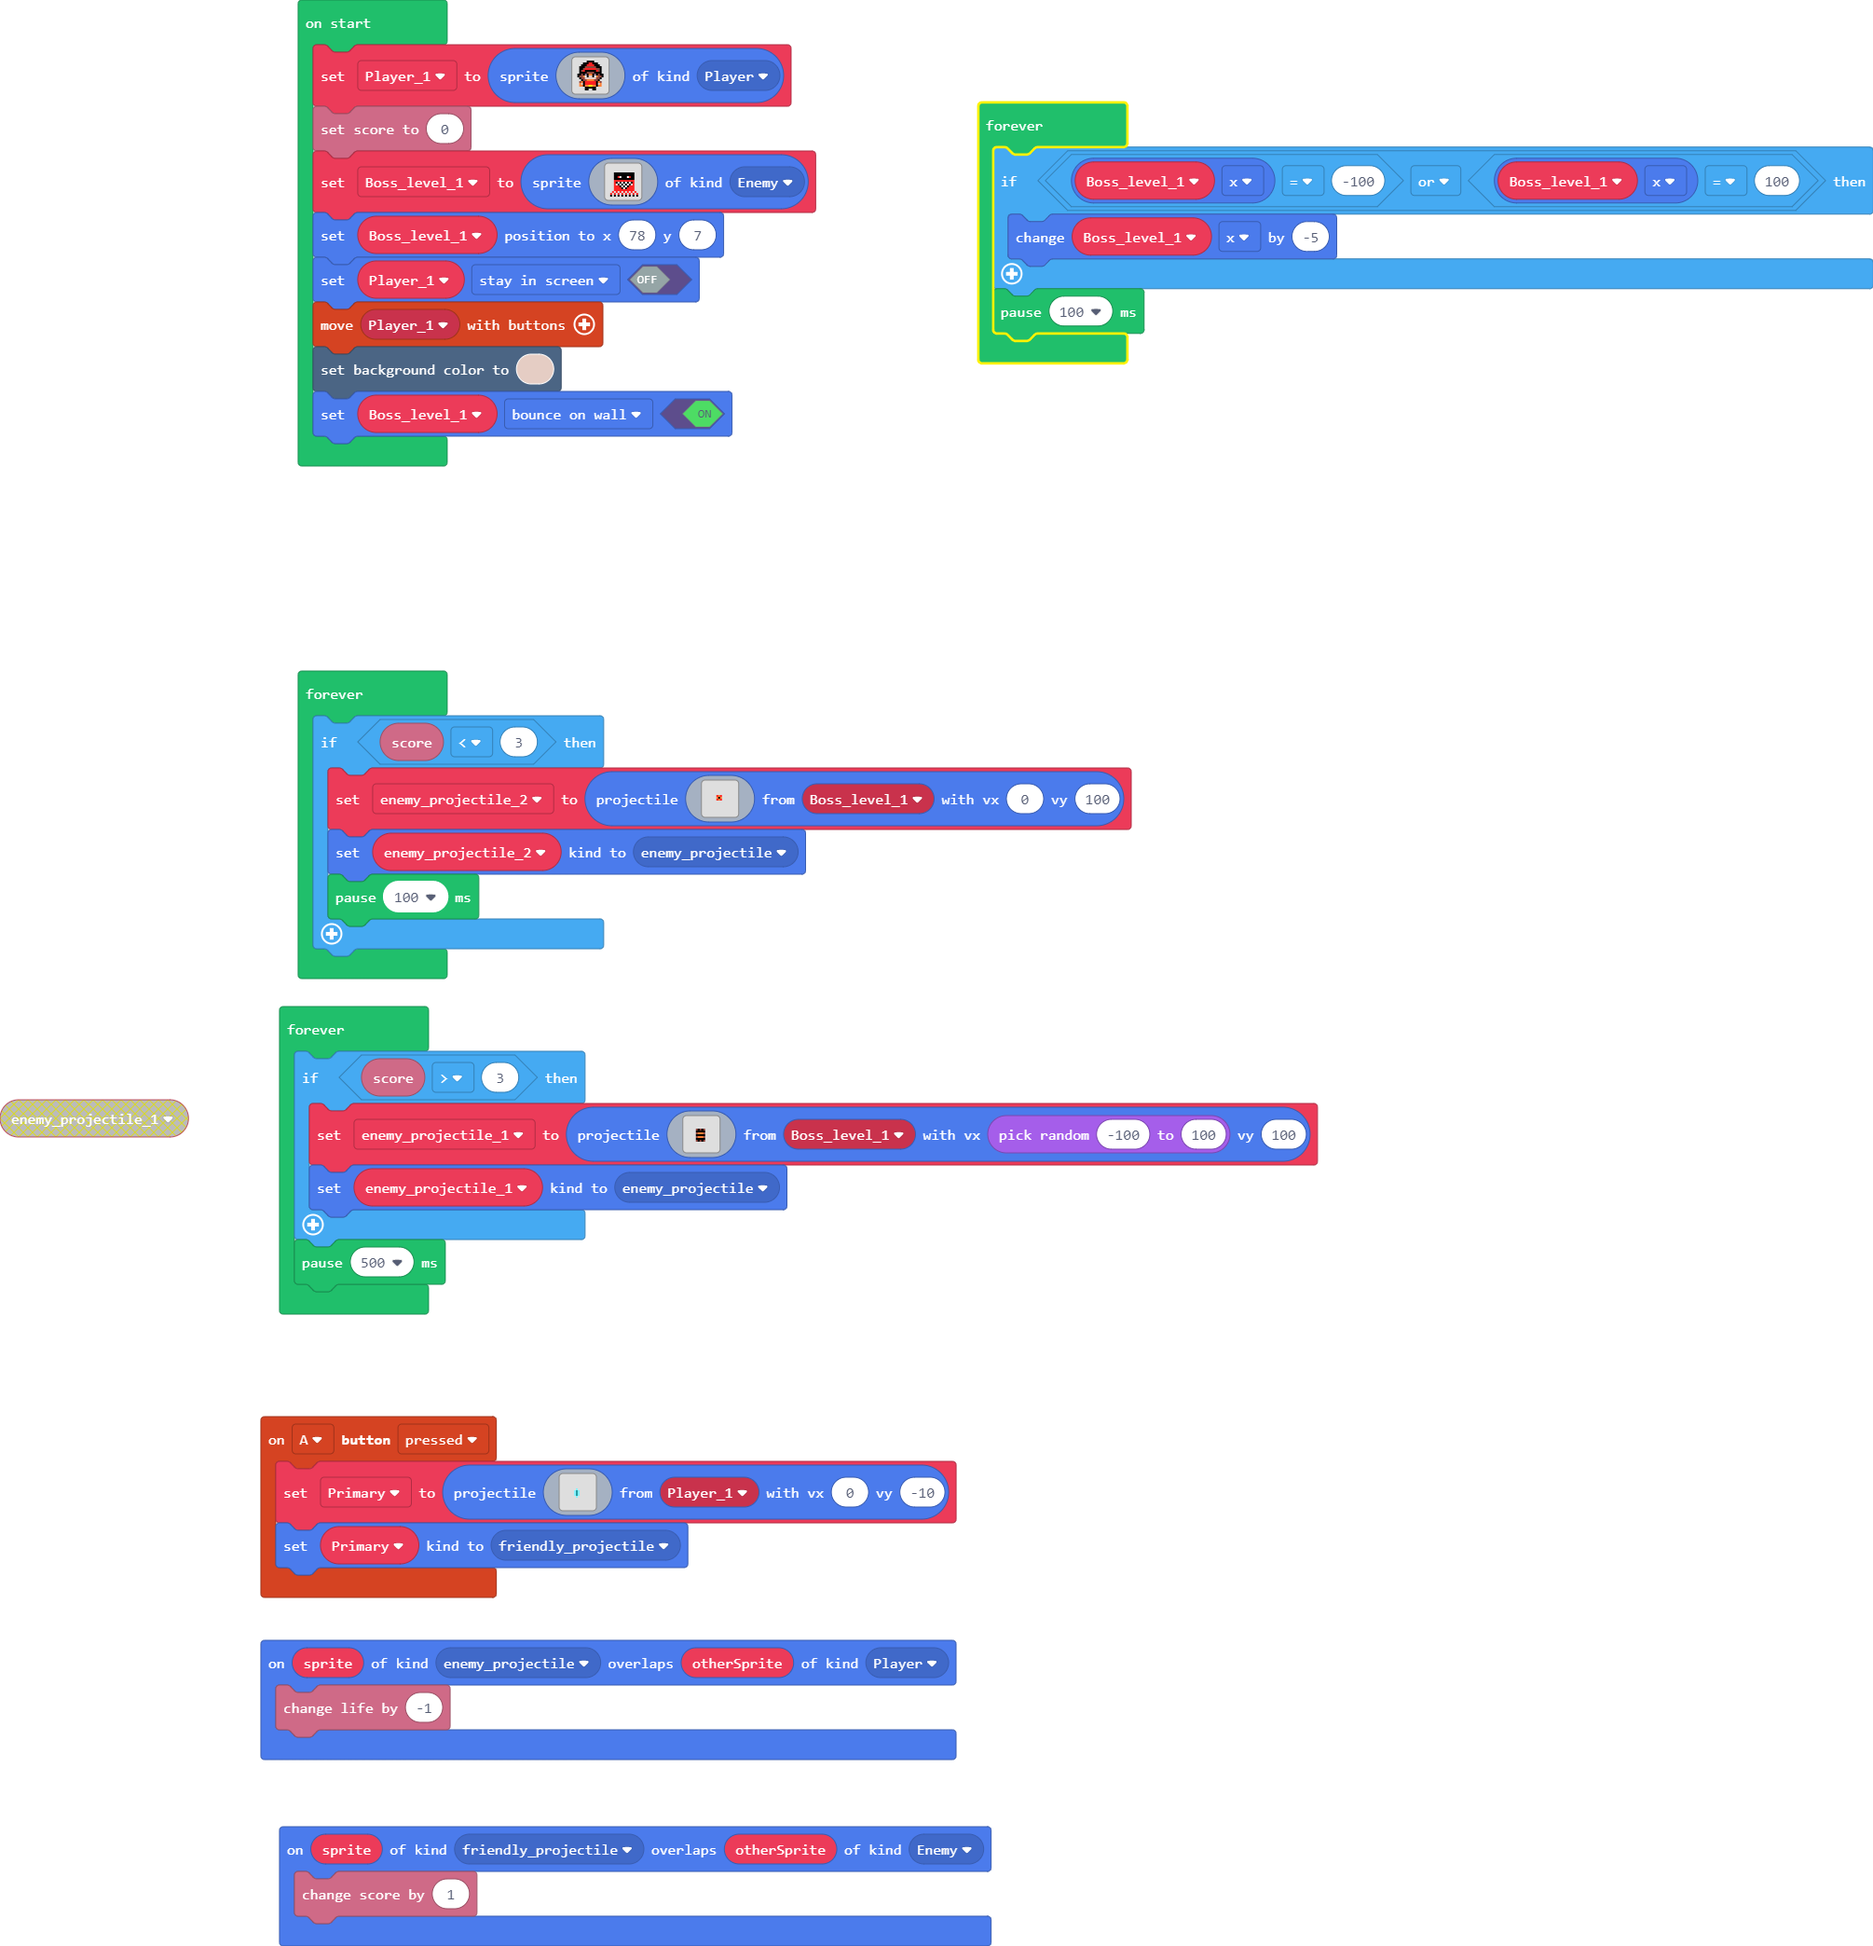
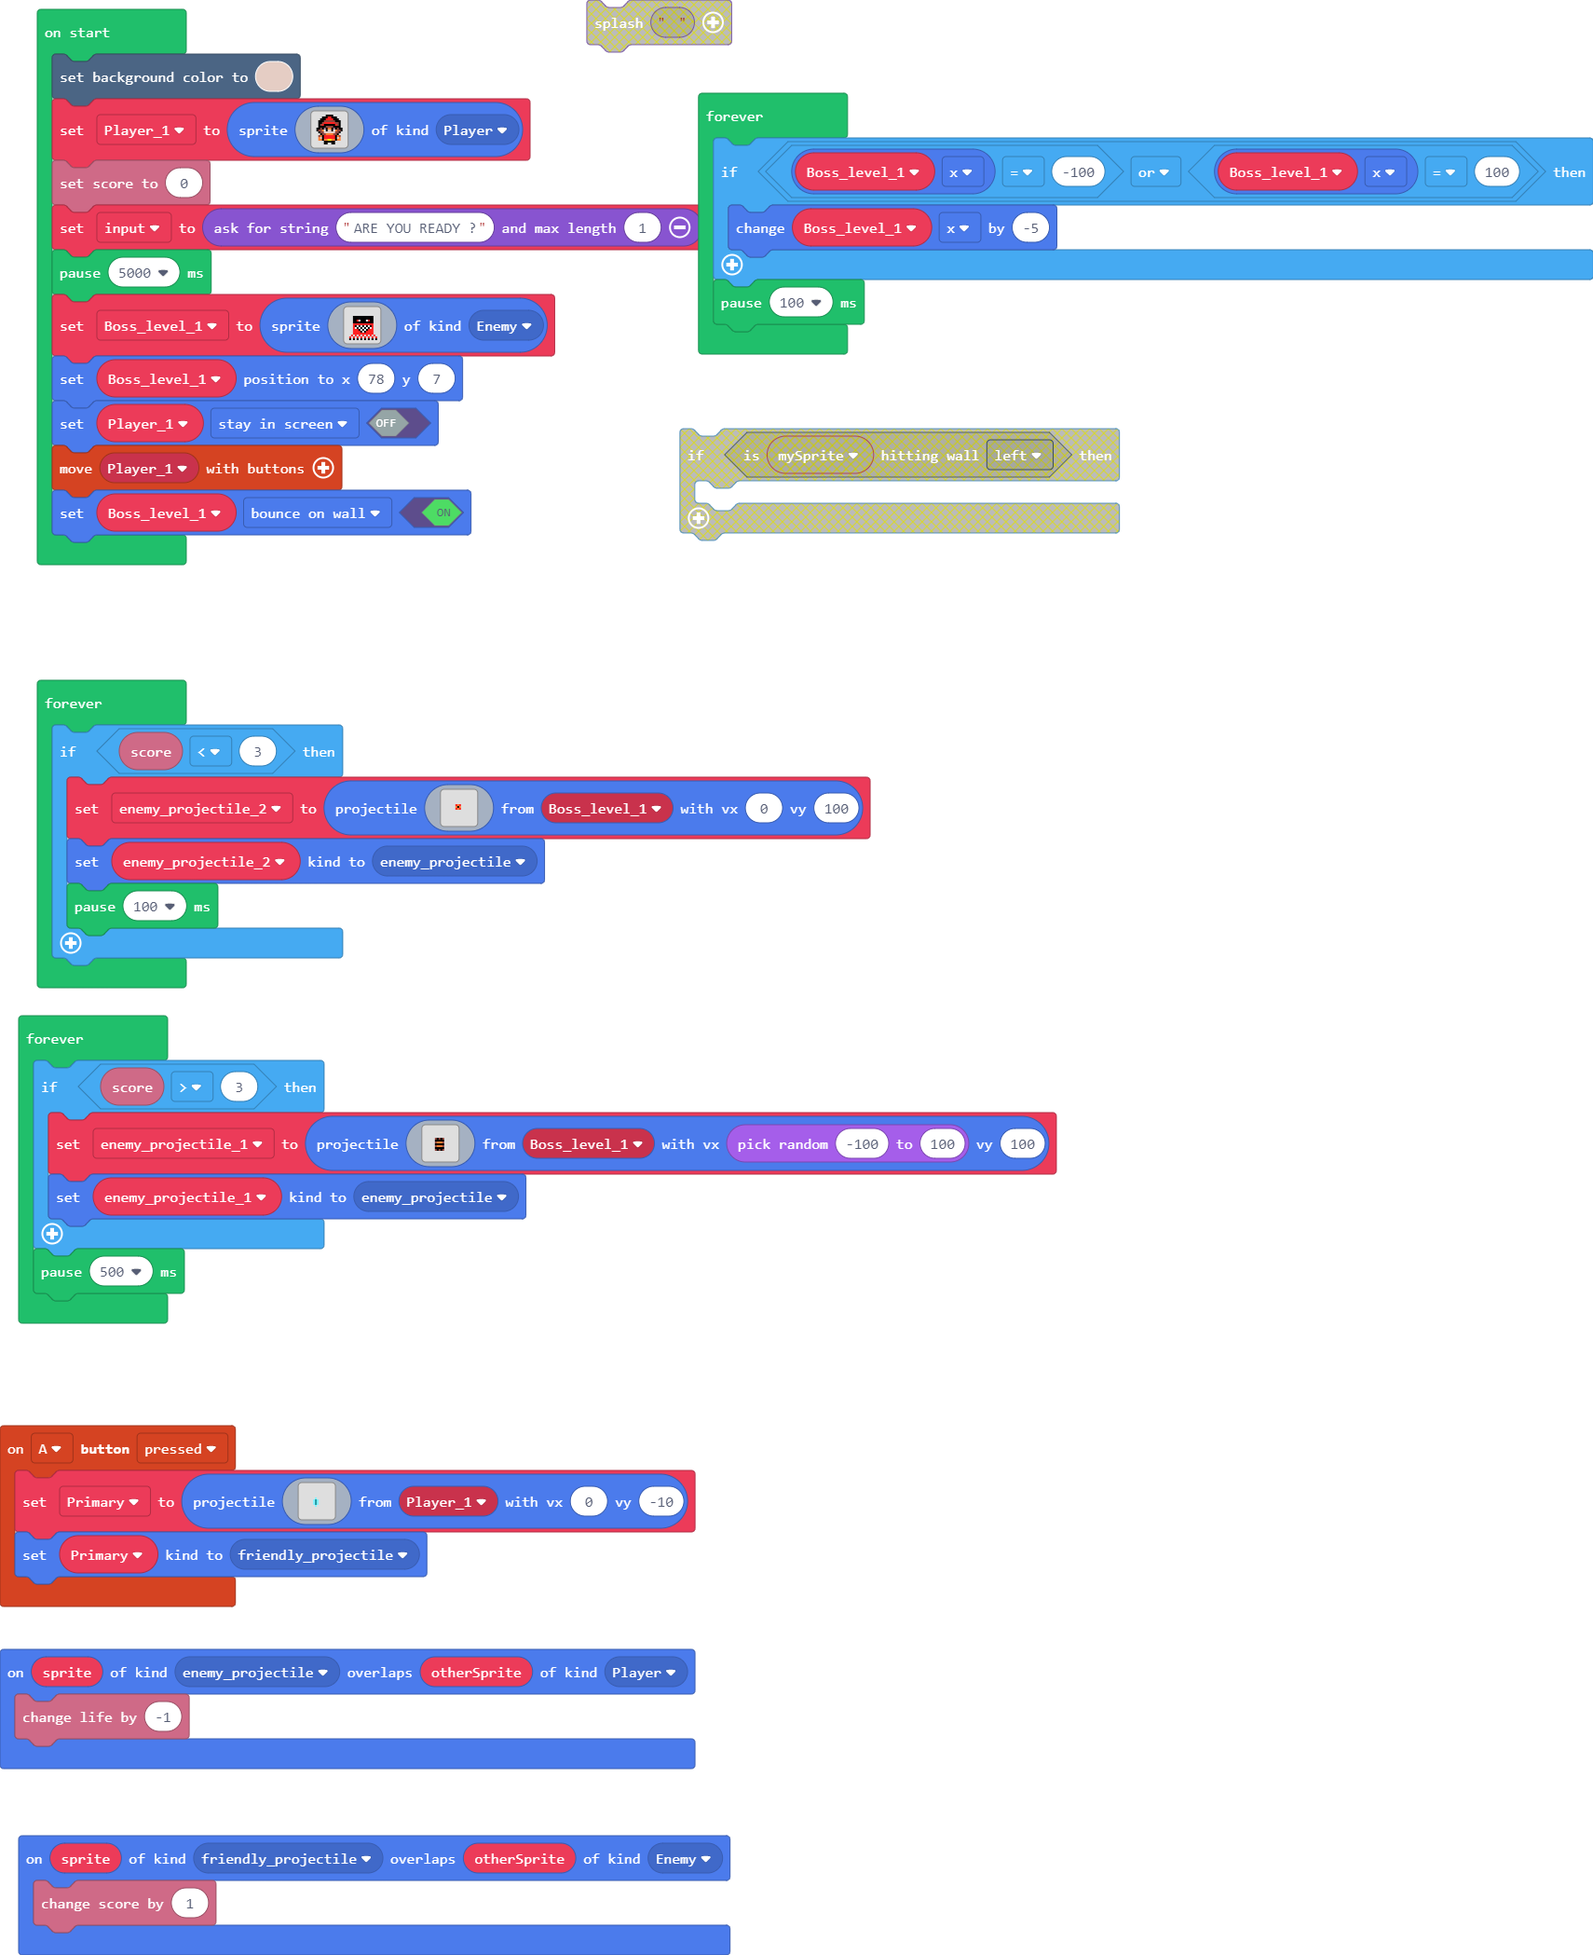
Loading screen

diff --git a/main.ts b/main.ts
@@ -1,6 +1,7 @@
 namespace SpriteKind {
     export const enemy_projectile = SpriteKind.create()
     export const friendly_projectile = SpriteKind.create()
+    export const temporary_message = SpriteKind.create()
 }
 sprites.onOverlap(SpriteKind.friendly_projectile, SpriteKind.Enemy, function (sprite, otherSprite) {
     info.changeScoreBy(1)
@@ -33,6 +34,7 @@ let enemy_projectile_1: Sprite = null
 let enemy_projectile_2: Sprite = null
 let Primary: Sprite = null
 let Player_1: Sprite = null
+scene.setBackgroundColor(13)
 Player_1 = sprites.create(img`
 . . . . . . f f f f . . . . . . 
 . . . . f f f 2 2 f f f . . . . 
@@ -52,6 +54,8 @@ Player_1 = sprites.create(img`
 . . . . . f f . . f f . . . . . 
 `, SpriteKind.Player)
 info.setScore(0)
+let input2 = game.askForString("ARE YOU READY ?", 1)
+pause(5000)
 let Boss_level_1 = sprites.create(img`
 . . . . . . . . . . . . . . . . 
 . . . . . . . . . . . . . . . . 
@@ -73,7 +77,6 @@ let Boss_level_1 = sprites.create(img`
 Boss_level_1.setPosition(78, 7)
 Player_1.setFlag(SpriteFlag.StayInScreen, false)
 controller.moveSprite(Player_1)
-scene.setBackgroundColor(13)
 Boss_level_1.setFlag(SpriteFlag.BounceOnWall, true)
 forever(function () {
     if (Boss_level_1.x == -100 || Boss_level_1.x == 100) {
